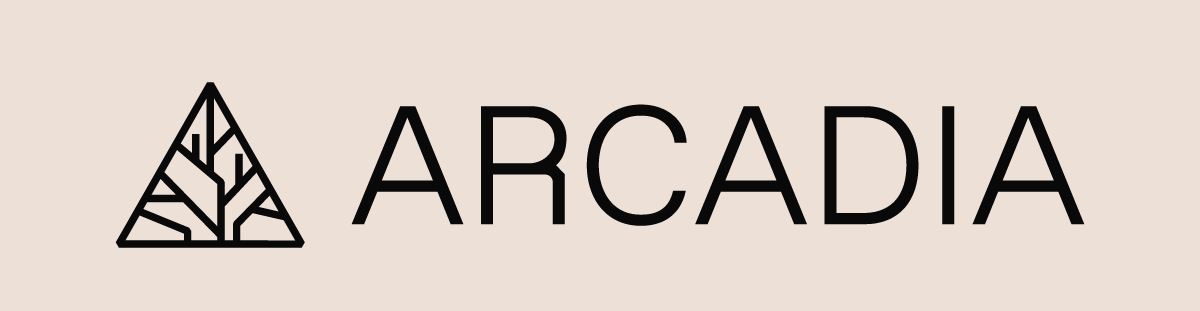
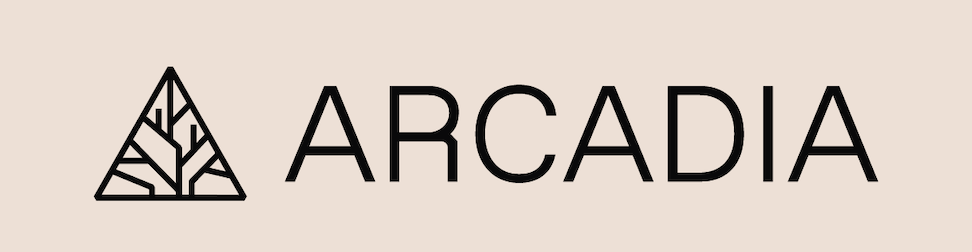
resize img

diff --git a/profile/README.md b/profile/README.md
@@ -1,5 +1,5 @@
 <p align="center">
-<img src="../static/GitHub-Arcadia.png" height="300">
+<img src="../static/GitHub-Arcadia.png">
   <br>
   <b> Welcome to @Arcadia-Science! </b>
 </p>
